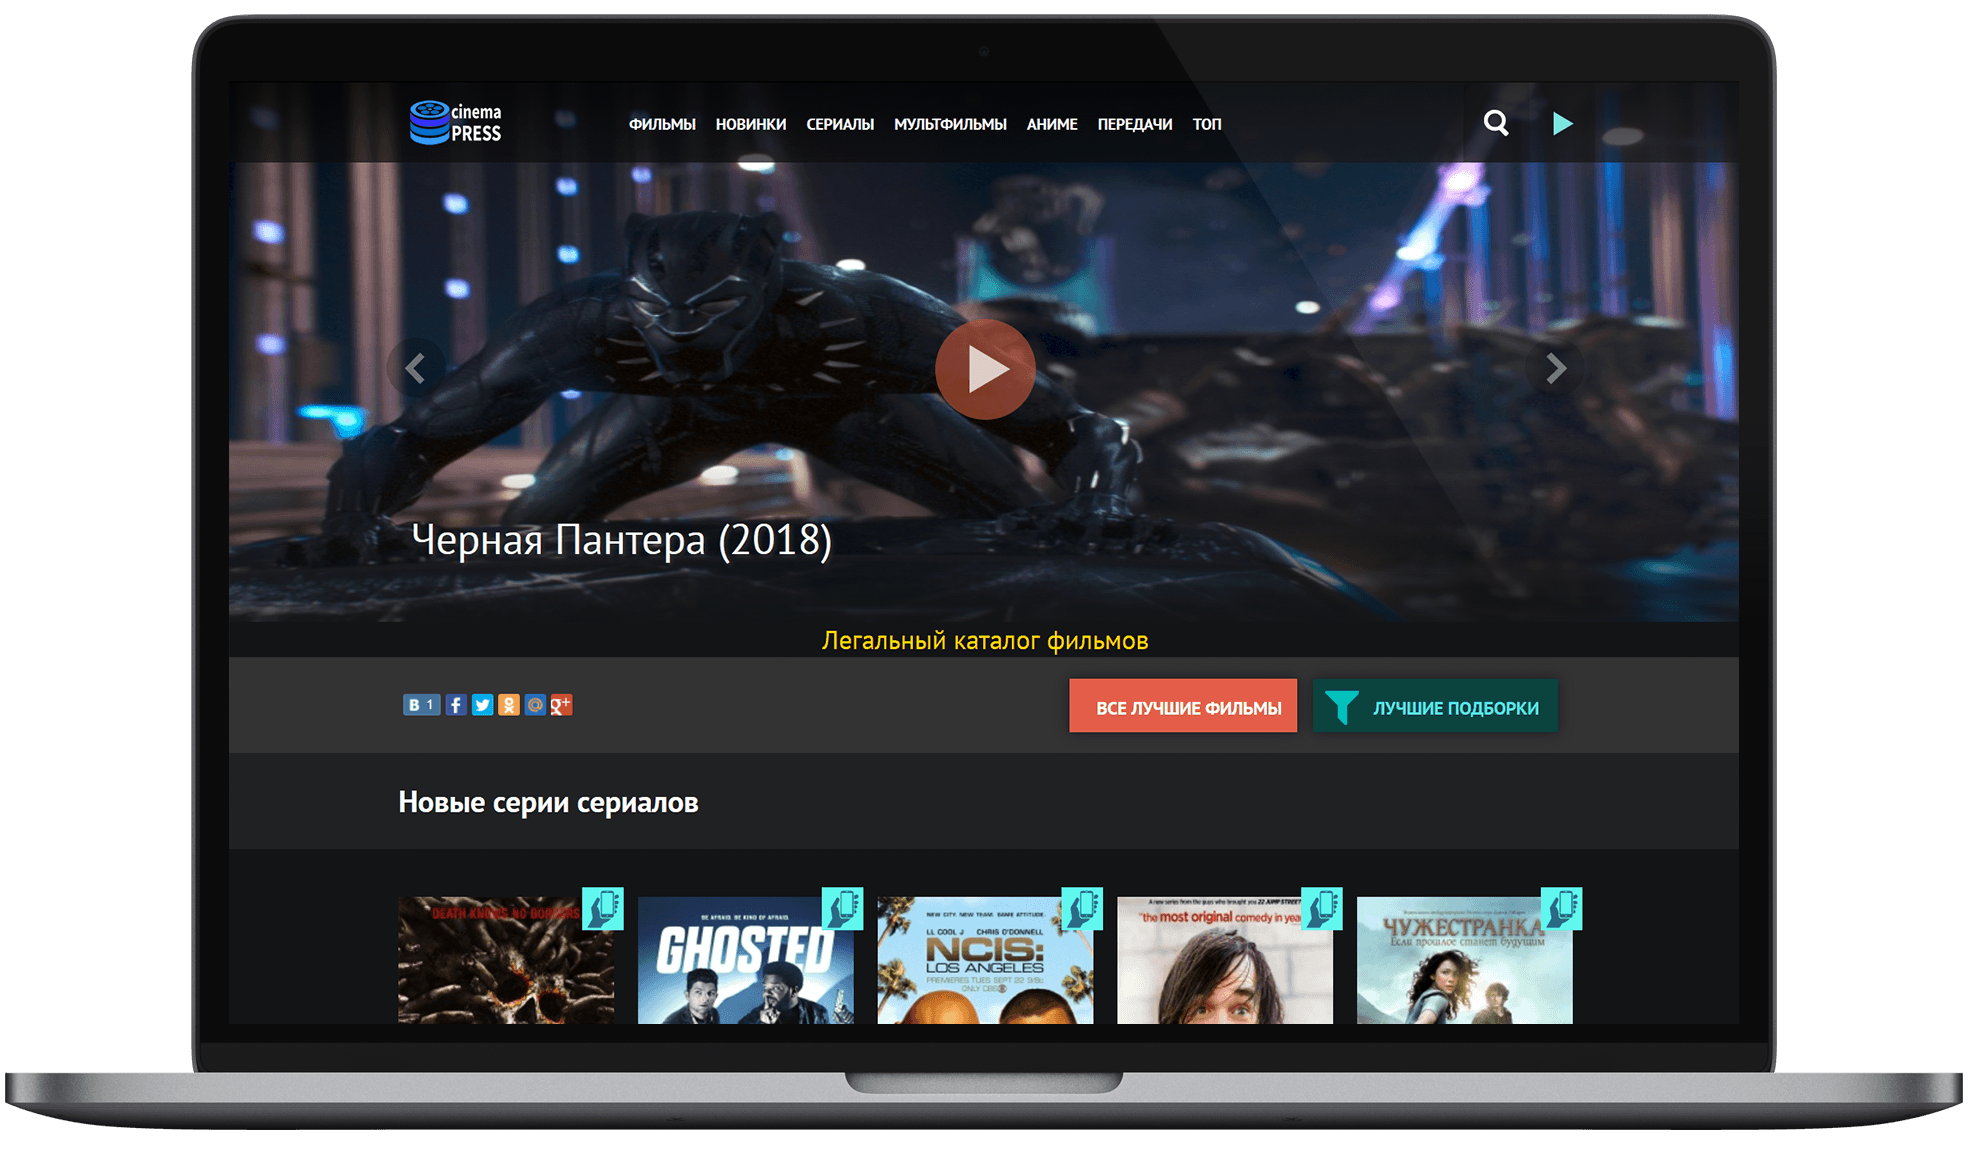
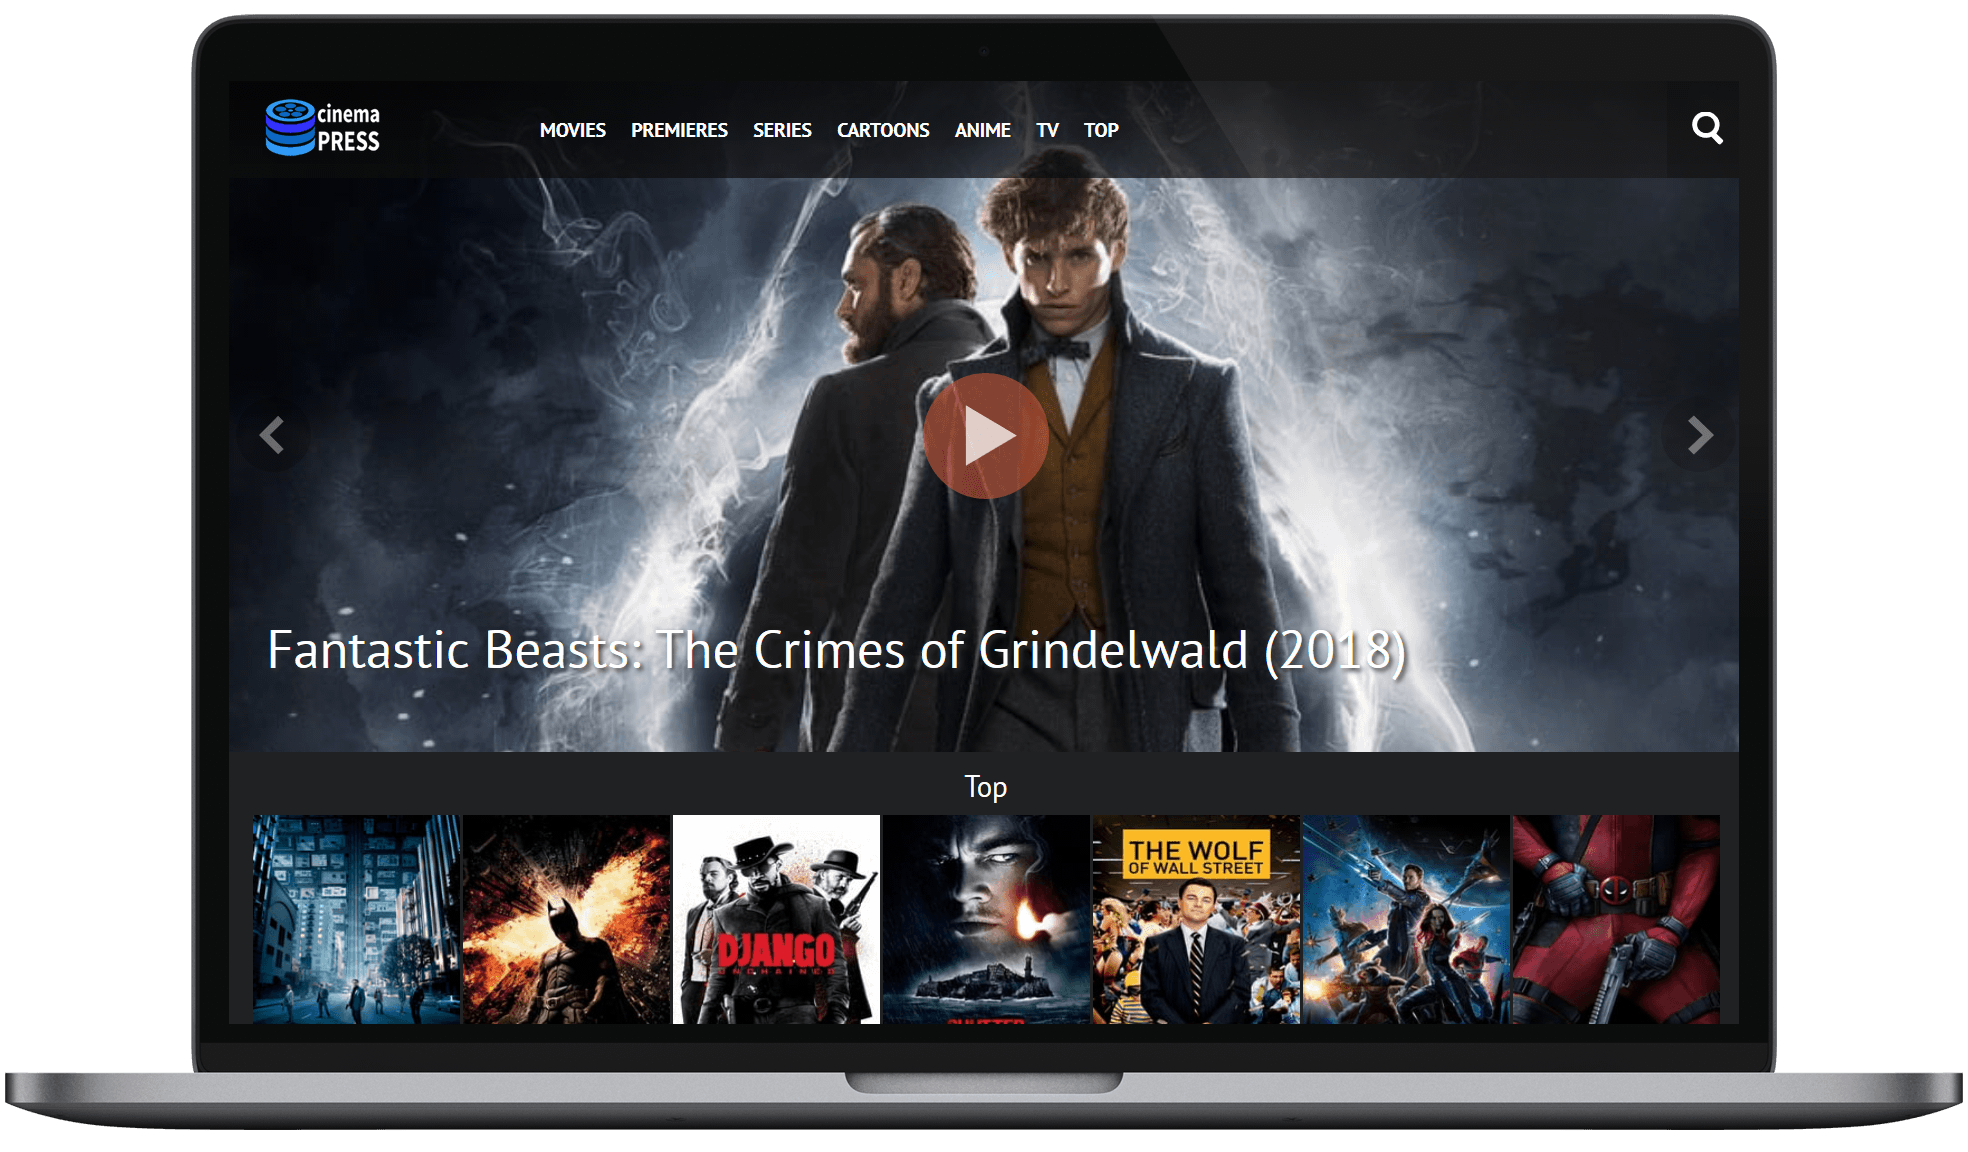
Add translate, new scr

diff --git a/README.md b/README.md
@@ -1,18 +1,29 @@
-# Шаблон «hodor»
+# Theme «hodor»
 
-![Шаблон «hodor» для CinemaPress ACMS](https://raw.githubusercontent.com/CinemaPress/Theme-Hodor/master/screenshot.png "Шаблон «hodor» для CinemaPress ACMS")
+![Theme «hodor» for CinemaPress ACMS](https://raw.githubusercontent.com/CinemaPress/Theme-Hodor/master/screenshot.png "Theme «hodor» for CinemaPress ACMS")
 
-:art: Шаблон «hodor» для CinemaPress ACMS
+:art: Theme «hodor» for CinemaPress ACMS
 
 - [Hodor.CinemaPress.org](http://Hodor.CinemaPress.org/)
 
-## Установка
+## How to install?
+1. Download [GitHub](https://github.com/CinemaPress/Theme-Hodor/archive/master.zip) or [GitLab](https://gitlab.com/CinemaPress/Theme-Hodor/repository/archive.zip) or [BitBucket](https://bitbucket.org/cinemapress/theme-hodor/get/master.zip) or [Coding](https://coding.net/u/CinemaPress/p/Theme-Hodor/git/archive/master.zip)
+2. Unpack the archive and rename the folder to **hodor**
+3. Folder **hodor** send to server in folder **themes**
+4. Change the name of the theme in the admin panel to **hodor**
+
+## Installation via terminal
+```
+~# wget cinemapress.org/i -qO i && chmod +x i && ./i 3
+```
+
+## Как установить?
 1. Скачать архив с [GitHub](https://github.com/CinemaPress/Theme-Hodor/archive/master.zip) или [GitLab](https://gitlab.com/CinemaPress/Theme-Hodor/repository/archive.zip) или [BitBucket](https://bitbucket.org/cinemapress/theme-hodor/get/master.zip) или [Coding](https://coding.net/u/CinemaPress/p/Theme-Hodor/git/archive/master.zip)
 2. Распаковать архив и переименовать папку в **hodor**
 3. Папку **hodor** отправить на сервер в папку **themes**
 4. Изменить название темы в админ-панели на **hodor**
 
-## Установка через установщик тем CinemaPress ACMS
+## Установка через терминал
 ```
 ~# wget cinemapress.org/i -qO i && chmod +x i && ./i 3
 ```
